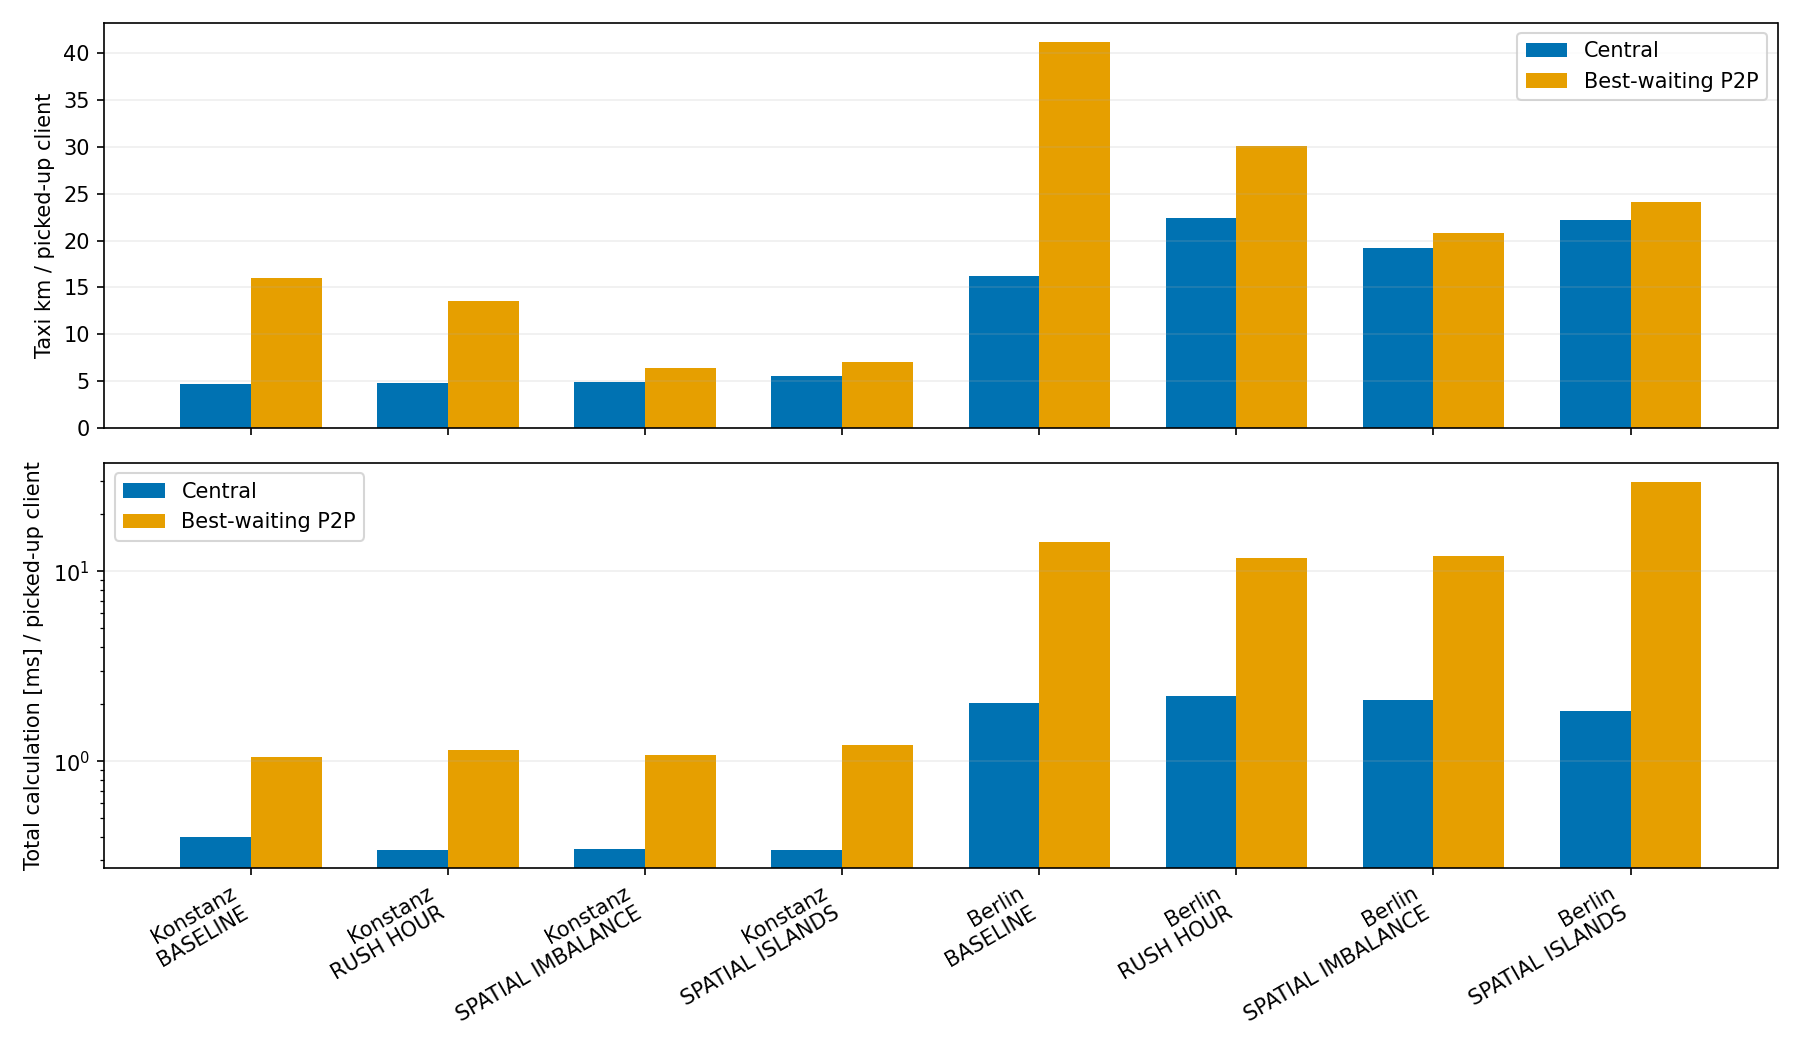
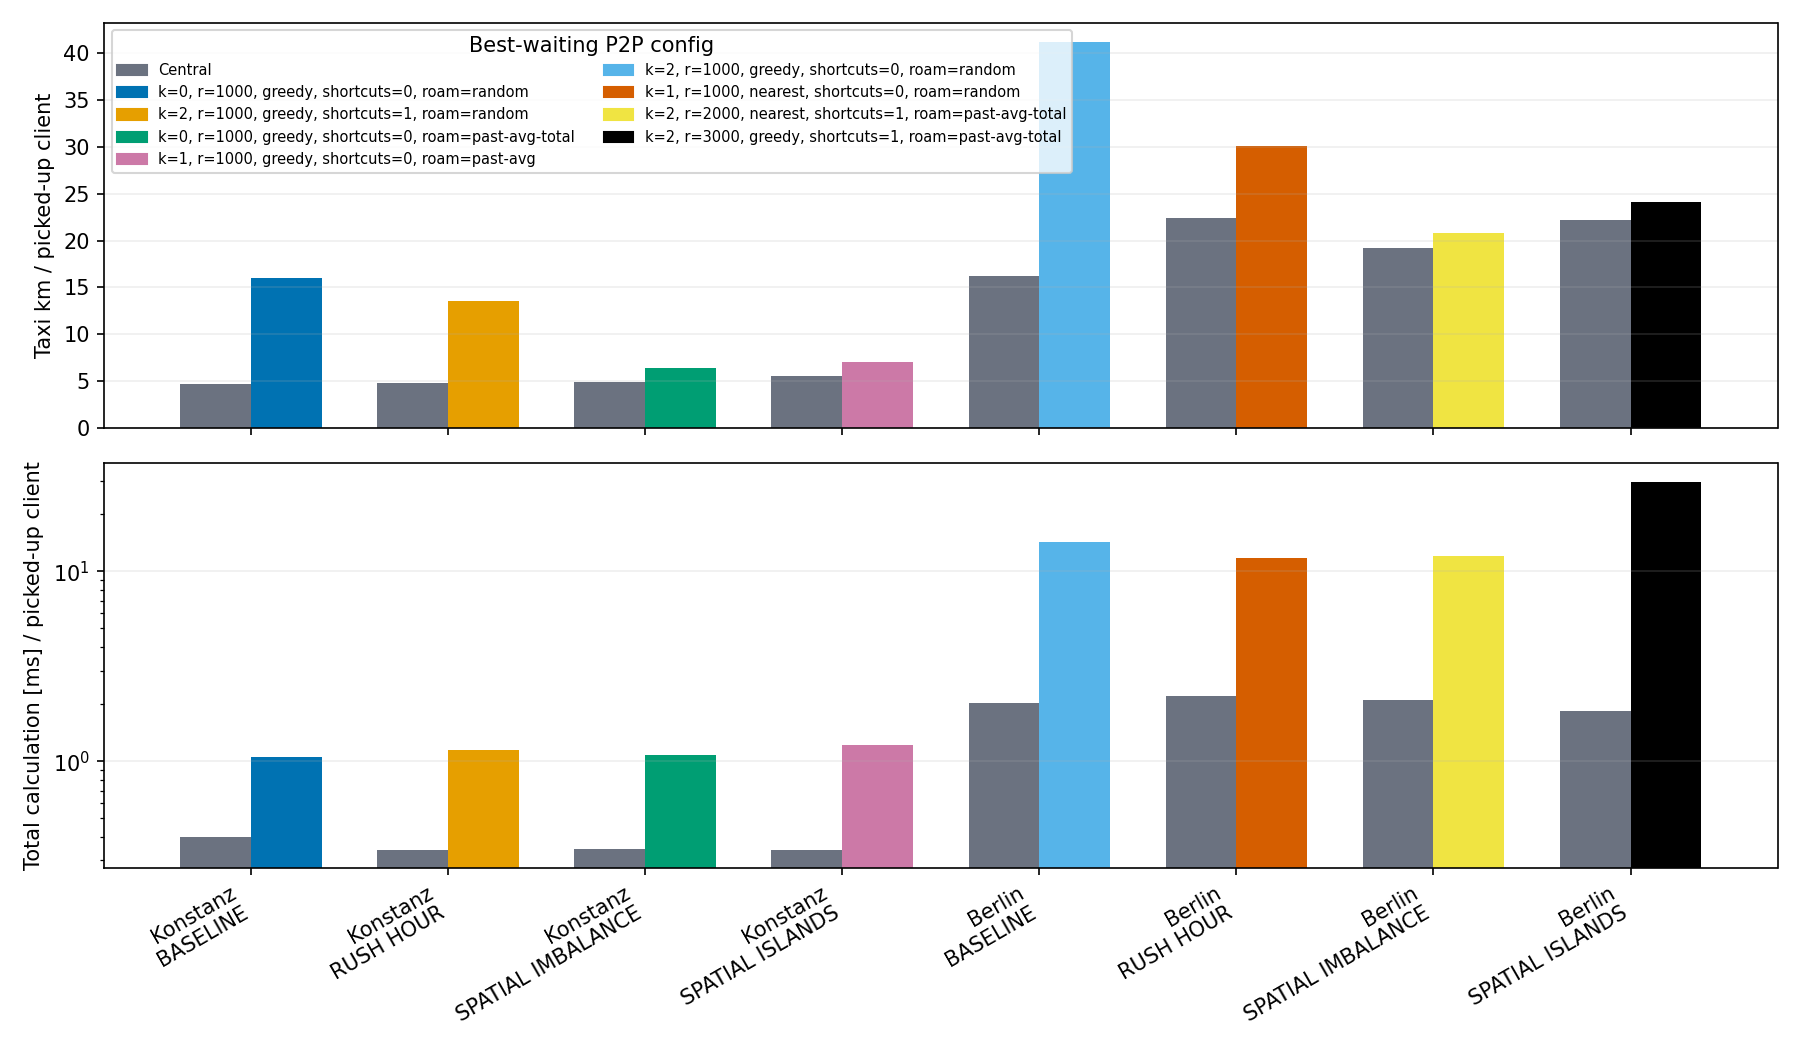
chore: best p2p plot colored instead of 1 for different p2p configs

diff --git a/mass-run-analysis/analyze_mass_run.py b/mass-run-analysis/analyze_mass_run.py
@@ -24,6 +24,7 @@ try:
 
     matplotlib.use("Agg")
     import matplotlib.pyplot as plt
+    from matplotlib.patches import Patch
 except Exception:  # pragma: no cover - tables still work without plots
     plt = None
 
@@ -2440,21 +2441,33 @@ def plot_best_waiting_cost(data: pd.DataFrame, out: Path) -> dict[str, str] | No
     if plt is None or data.empty:
         return None
     data = data.sort_values(["taxiCount", "spawnScenario"])
+    configs = [config_label(row) for row in data.itertuples(index=False)]
+    colors = {
+        config: OKABE_ITO_COLORS[i % len(OKABE_ITO_COLORS)]
+        for i, config in enumerate(dict.fromkeys(configs))
+    }
+    p2p_colors = [colors[config] for config in configs]
     labels = scenario_labels(data)
     x = np.arange(len(data))
     width = 0.36
     fig, axes = plt.subplots(2, 1, figsize=(12, 7), sharex=True)
-    axes[0].bar(x - width / 2, data["centralKmPerServedClient"], width, label="Central")
-    axes[0].bar(x + width / 2, data["kmPerServedClient"], width, label="Best-waiting P2P")
+    axes[0].bar(x - width / 2, data["centralKmPerServedClient"], width, color="#6b7280")
+    axes[0].bar(x + width / 2, data["kmPerServedClient"], width, color=p2p_colors)
     axes[0].set_ylabel("Taxi km / picked-up client")
-    axes[1].bar(x - width / 2, data["centralCalculationMsPerServedClient"], width, label="Central")
-    axes[1].bar(x + width / 2, data["calculationMsPerServedClient"], width, label="Best-waiting P2P")
+    axes[1].bar(x - width / 2, data["centralCalculationMsPerServedClient"], width, color="#6b7280")
+    axes[1].bar(x + width / 2, data["calculationMsPerServedClient"], width, color=p2p_colors)
     axes[1].set_ylabel("Total calculation [ms] / picked-up client")
     axes[1].set_yscale("log")
     axes[1].set_xticks(x, labels, rotation=30, ha="right")
     for ax in axes:
-        ax.legend()
         ax.grid(axis="y", alpha=0.2)
+    axes[0].legend(
+        handles=[Patch(color="#6b7280", label="Central")]
+        + [Patch(color=colors[config], label=config) for config in dict.fromkeys(configs)],
+        title="Best-waiting P2P config",
+        fontsize=7,
+        ncol=2,
+    )
     fig.tight_layout()
     name = "best_waiting_service_normalized_cost.png"
     fig.savefig(out / name, dpi=150)
